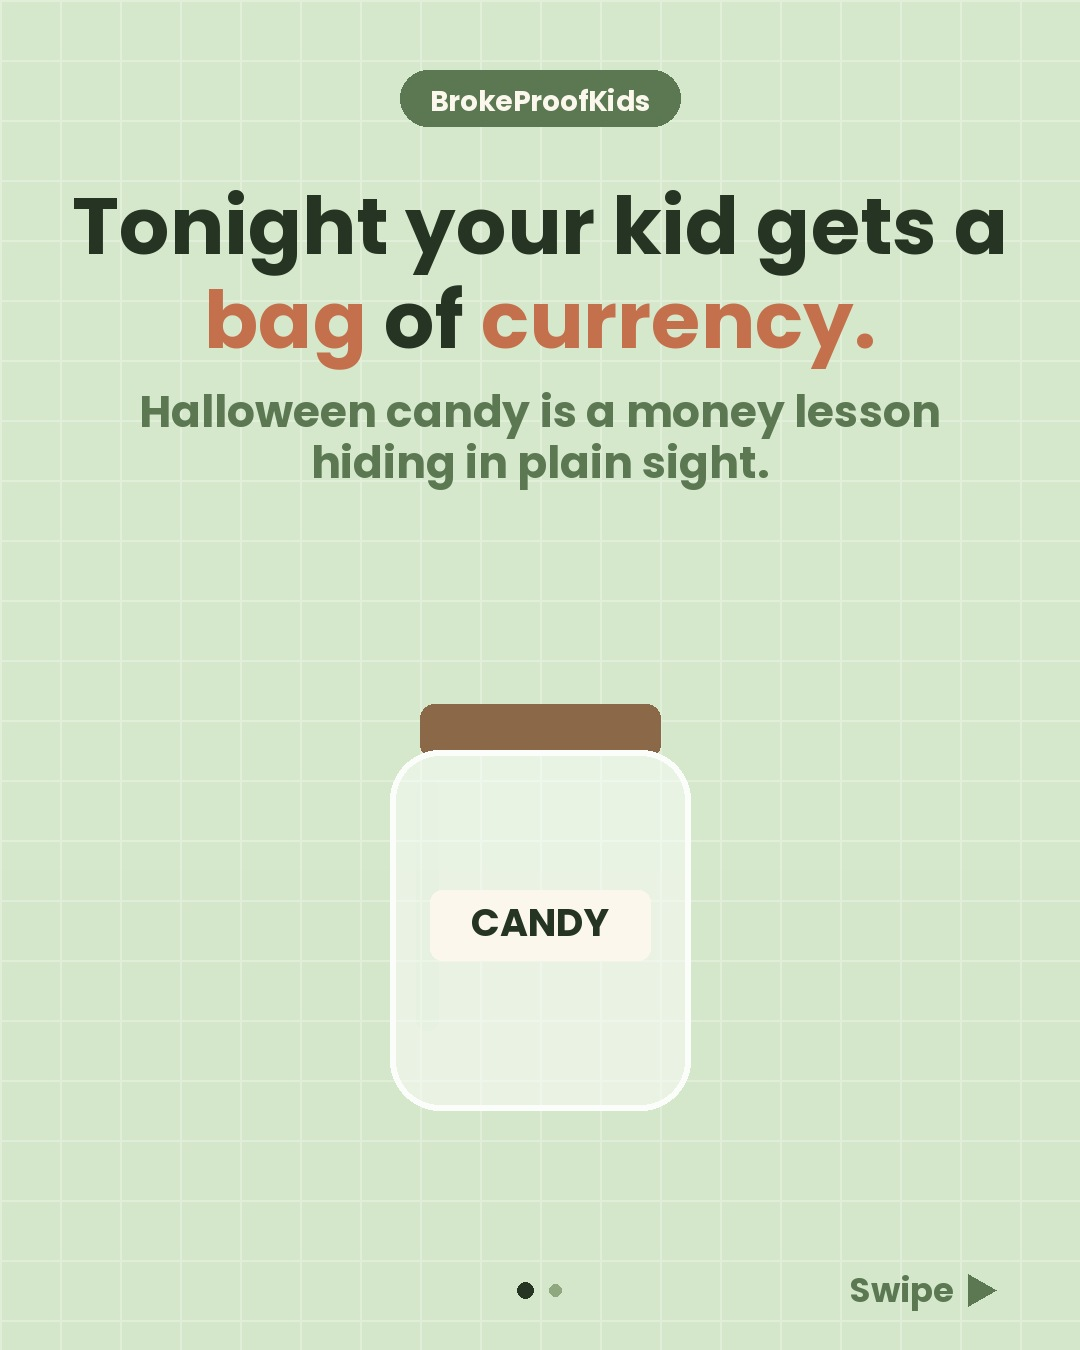
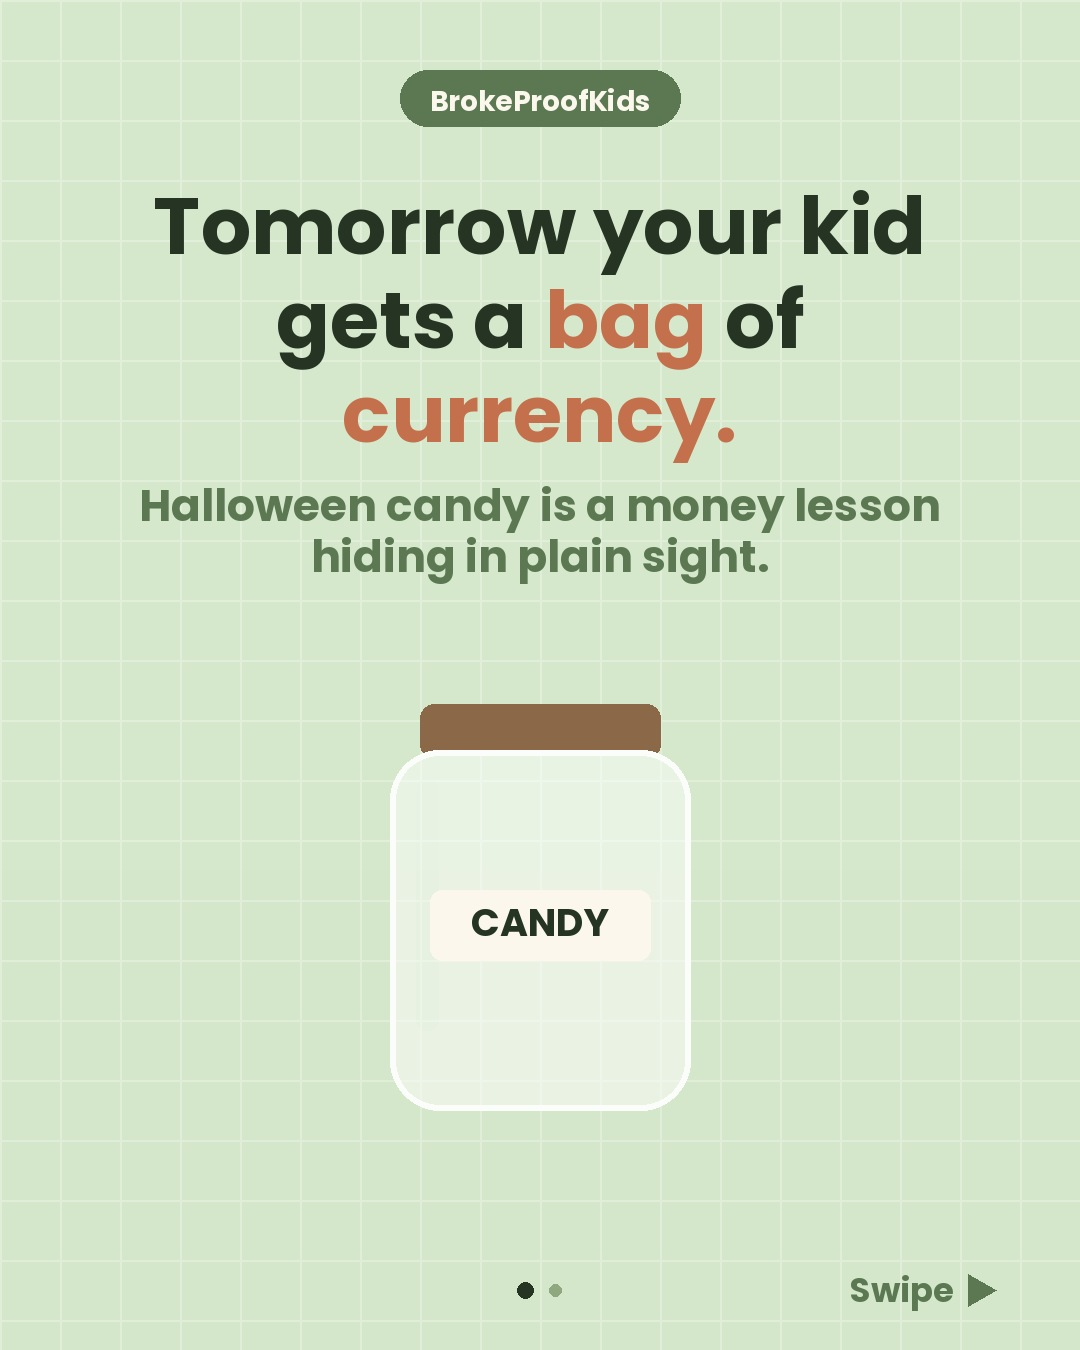
BPK: C011 says tomorrow (posts Fri Oct 30)
Claude-Session: https://claude.ai/code/session_01QnnJLQqgDYpjQiHFNV7mc2

Changed region(s): [[0.0611, 0.1244, 0.9472, 0.4356]]

diff --git a/bpk/tools/C011_candy.py b/bpk/tools/C011_candy.py
@@ -8,7 +8,7 @@ def d2(img):
     d = ImageDraw.Draw(img); pill(d, 540, 1120, "Comment BOOK", size=56, bg=TERRA)
     return img
 SPEC = {"id": "C011_candy", "slides": [
-    {"text": "Tonight your kid gets a *bag of currency.*", "size": 80, "swipe": True,
+    {"text": "Tomorrow your kid gets a *bag of currency.*", "size": 80, "swipe": True,
      "sub": "Halloween candy is a money lesson hiding in plain sight.", "draw": d1},
     {"kicker": "THE FIX", "text": "Let them *trade.*", "size": 88,
      "sub": "Ask: \"Is that a fair trade? Why?\" That's value and trade-offs. Comment *BOOK* before the candy runs out.", "draw": d2},
